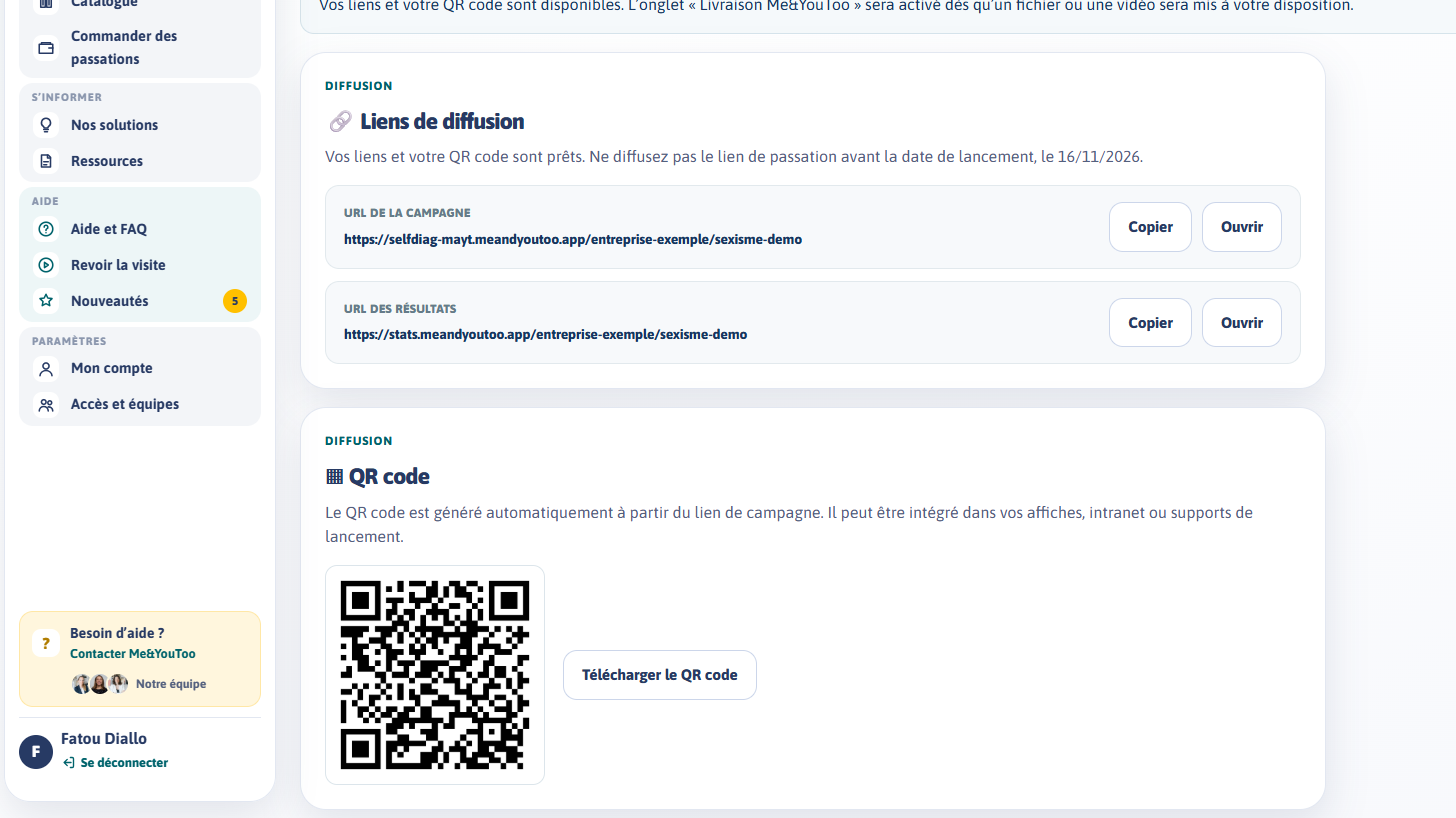
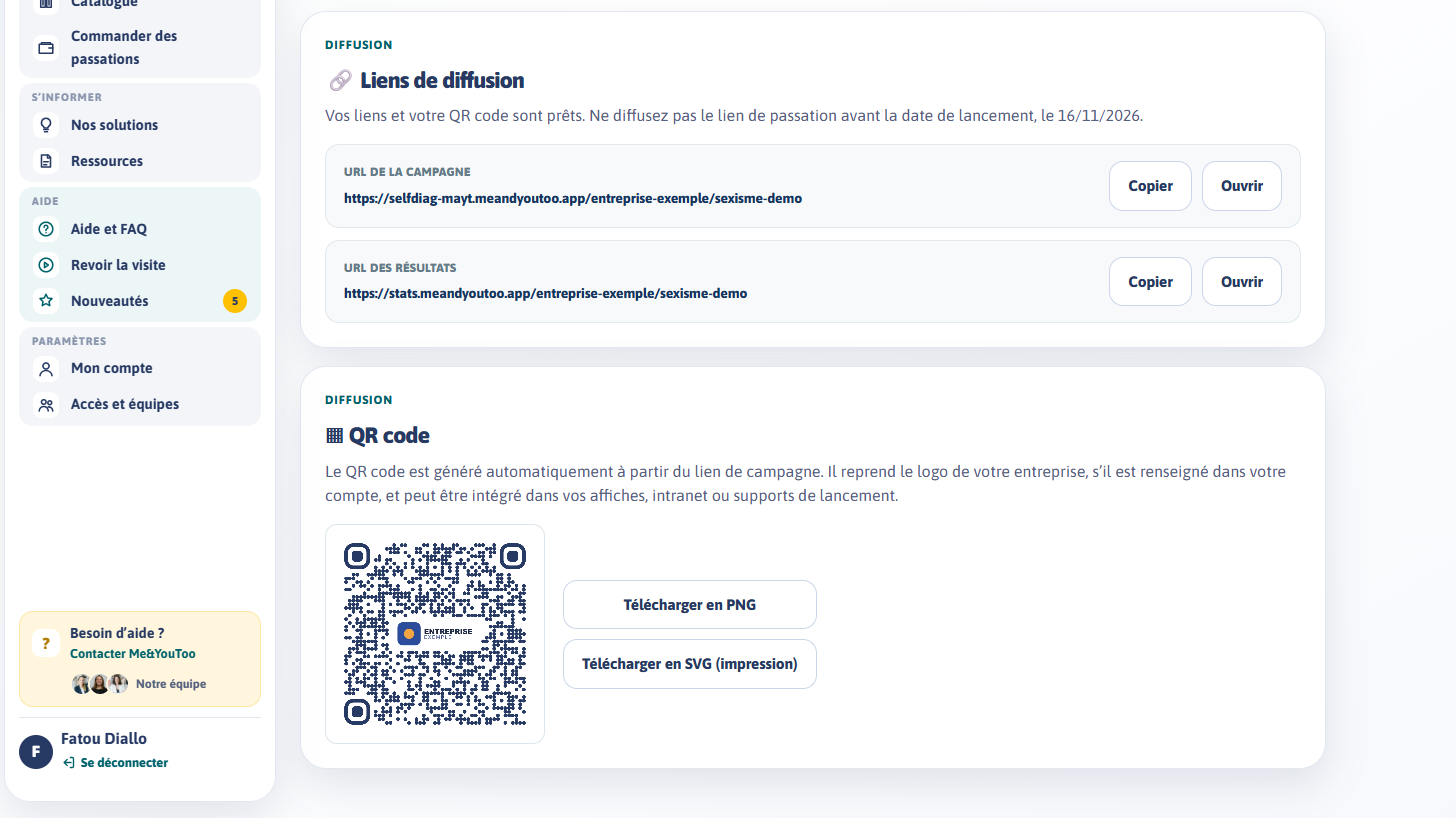
Tutoriel Relecture : nouveau QR code

diff --git a/tutos/relecture/index.html b/tutos/relecture/index.html
@@ -13,7 +13,7 @@
 // Captures du 3 novembre 2026 : compte de démonstration Fatou Diallo, Entreprise Exemple, campagne #350
 // « Sexisme – démo relecture » (une correction proposée par Carole côté admin, puis validée par Fatou).
 // La fenêtre « Demander un ajustement » a été ouverte puis annulée : aucune demande envoyée.
-// Captures 8 à 10 du 4 novembre 2026 : la même campagne après sa publication par Carole (encart « Campagne concernée » masqué : il affiche l’e-mail ; notification de la capture 8 retouchée au texte corrigé, celle reçue sur #350 datant d’avant la correction).
+// Captures 8 à 10 du 4 novembre 2026, la 9 refaite avec le nouveau QR code : la même campagne après sa publication par Carole (encart « Campagne concernée » masqué : il affiche l’e-mail ; notification de la capture 8 retouchée au texte corrigé, celle reçue sur #350 datant d’avant la correction).
 // Cadres en % de la capture : [gauche, haut, largeur, hauteur]. Pour caler la voix : audio:'voix.mp3' et « at » (secondes) sur chaque plan.
 window.TUTO={
   eyebrow:'Tutoriel · Après la transmission',
@@ -33,8 +33,8 @@ window.TUTO={
     {img:'ecran-6.png',box:[9.3,65.4,81.6,12.4],text:'Quand toutes les corrections sont validées, cliquez sur « Confirmer ma validation » : c’est ce qui permet à Me&YouToo de passer à la mise en ligne.'},
     {img:'ecran-7.png',box:[8,36.7,84.2,11],text:'C’est fait : Me&YouToo prépare la mise en ligne. Vous serez prévenu dès que les liens de votre campagne seront disponibles.'},
     {img:'ecran-8.png',box:[20.5,19.6,24.5,12],text:'Quand tout est prêt, la notification « Votre campagne est programmée » apparaît. Cliquez dessus pour accéder à vos liens de diffusion.'},
-    {img:'ecran-9.png',box:[22.3,22.6,67,22],text:'Vous arrivez sur vos liens : celui de la campagne et celui des résultats. Ne diffusez pas le lien de la campagne avant la date de lancement.'},
-    {img:'ecran-9.png',box:[22.3,69,29.7,27],text:'Votre QR code est prêt aussi : téléchargez-le pour l’intégrer à vos affiches, à votre intranet ou à vos supports de lancement.'},
+    {img:'ecran-9.png',box:[22.2,17.3,67.2,22.4],text:'Vous arrivez sur vos liens : celui de la campagne et celui des résultats. Ne diffusez pas le lien de la campagne avant la date de lancement.'},
+    {img:'ecran-9.png',box:[22.2,63.6,34,27.2],text:'Votre QR code est prêt aussi, avec votre logo s’il est renseigné dans votre compte : téléchargez-le en PNG, ou en SVG pour l’impression.'},
     {img:'ecran-10.png',box:[2.9,39,89,24.8],text:'Dans le suivi de votre campagne, la relecture est terminée : vous êtes à l’étape « Mise en ligne », avec le statut « Programmée ».'},
     {img:'ecran-10.png',box:[1.2,69.7,92.3,7],text:'Votre campagne s’ouvrira automatiquement à sa date de début et se fermera toute seule à la fin.'}
   ],
